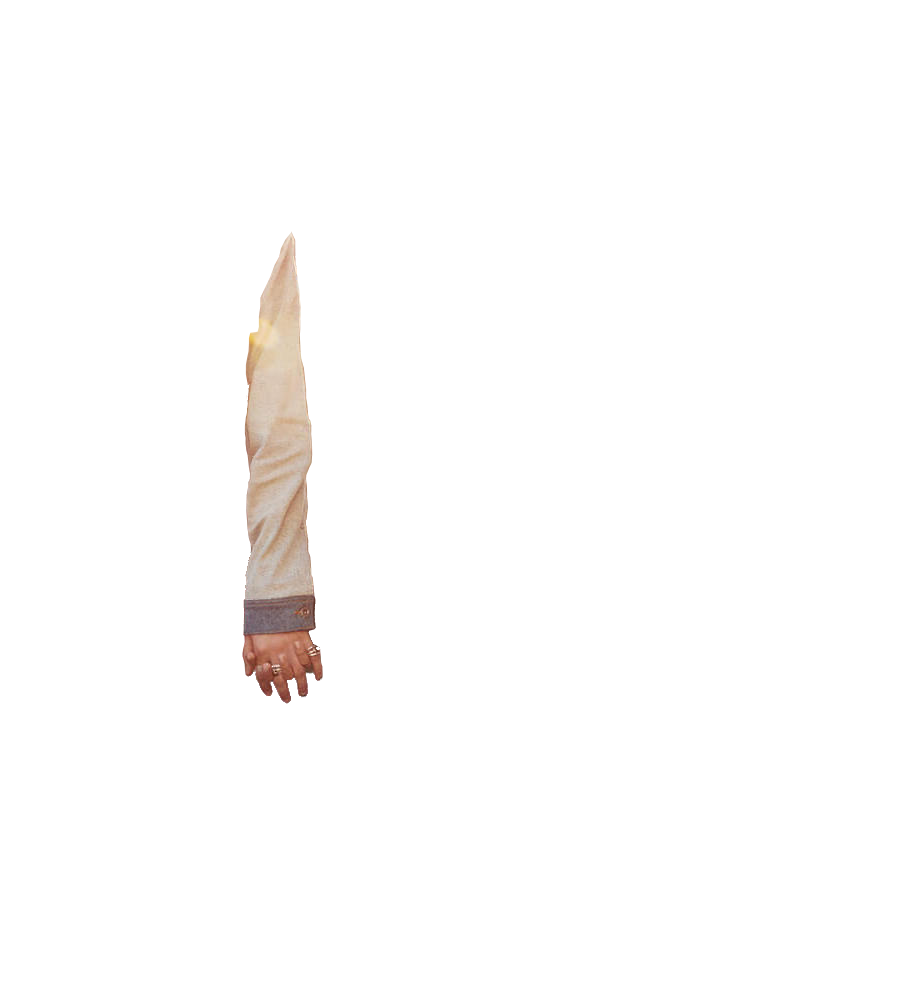
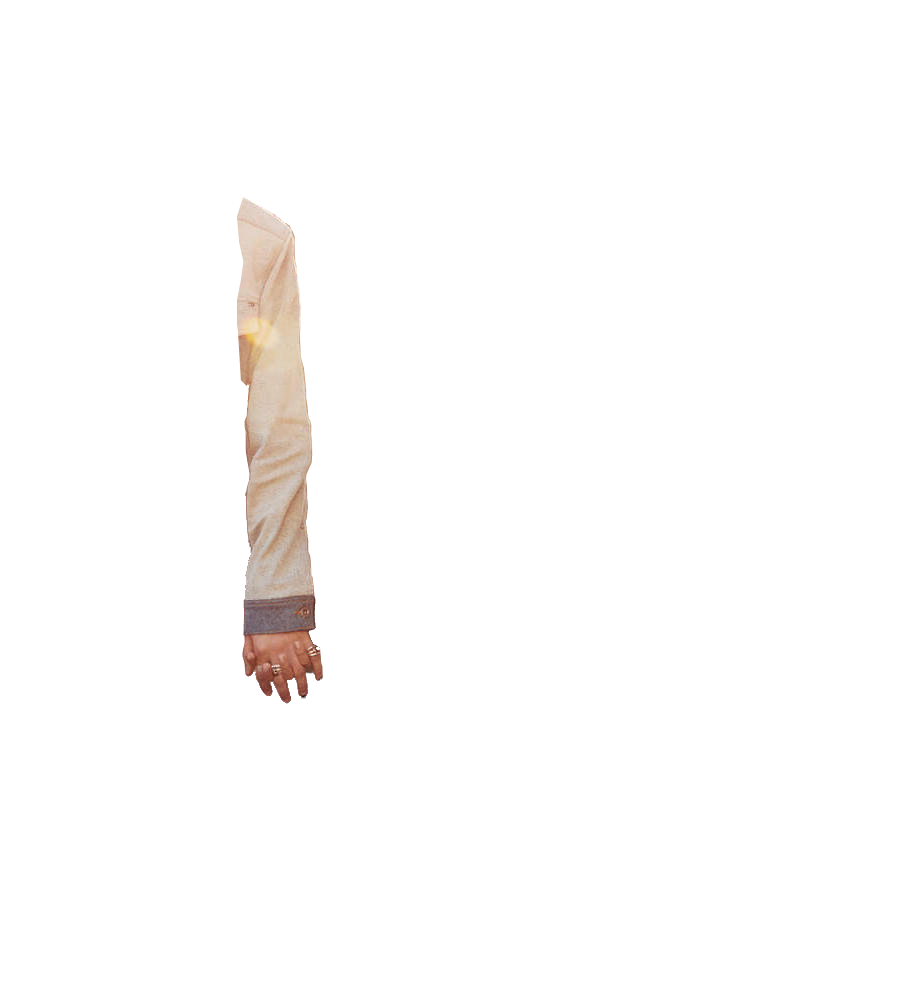
floating arm positioning

Changed region(s): [[0.2472, 0.1831, 0.34, 0.3967]]

diff --git a/src/App.scss b/src/App.scss
@@ -149,18 +149,28 @@ img{
 .container-3{
   position: relative;
   width: 900px;
-  margin: 40px auto;
+  margin: 40px 150px;
 }
 
 .column-left-block{
   float: left;
-  width: 25%;
+  width: 150px;
   margin-top: 60px;
   text-transform: uppercase;
 }
 .column-right-block{
   float: right;
-  width: 75%;
+  width: 675px;
+}
+
+.container-4{
+position: absolute;
+top:113px;
+left: 225px;
+}
+
+.arm{
+  position: absolute;
 }
 
 .mini-title{
@@ -211,7 +221,7 @@ img{
 }
 
 .title{
-  margin: auto;
+  margin: 140px;
   width: 925px;
 }
 

diff --git a/src/App.js b/src/App.js
@@ -72,7 +72,14 @@ function App() {
           </svg>
         </div>
       </div>
-    
+      <div class="container-4">
+         <div class="column-left-block"></div>
+         <div class="column-right-block">
+           <div class="arm">
+             <img src={imageArm} alt="" width="100%"/>
+           </div>
+         </div>
+      </div>
       </body>
     </html>
     </div>
